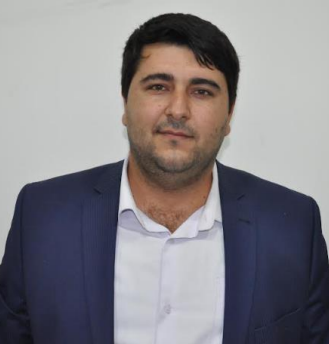
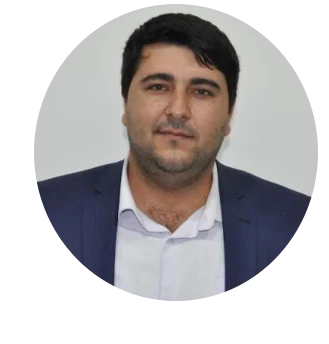
update

diff --git a/src/containers/Home.jsx b/src/containers/Home.jsx
@@ -73,7 +73,7 @@ const Home = () => {
               ease: "linear",
             }}
             src={Hero}
-            className="max-w-[500px] h-auto object-contain  lg:w-96 p-[2px] rounded-md bg-gradient-to-br from bg-primary to-secondary relative "
+            className="max-w-[500px] h-auto object-contain  lg:w-96 p-[2px]  relative "
           />
         </div>
       </div>
